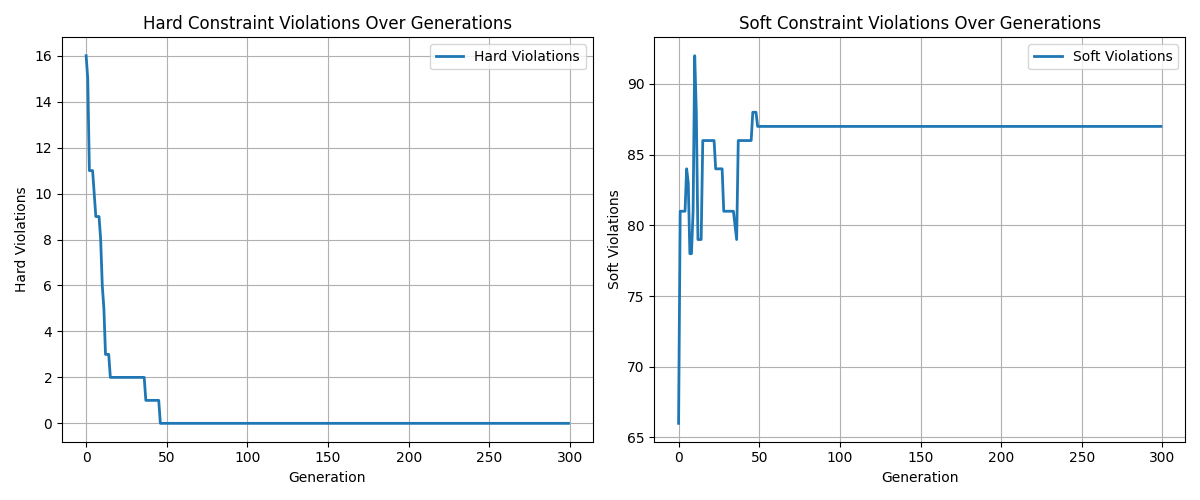
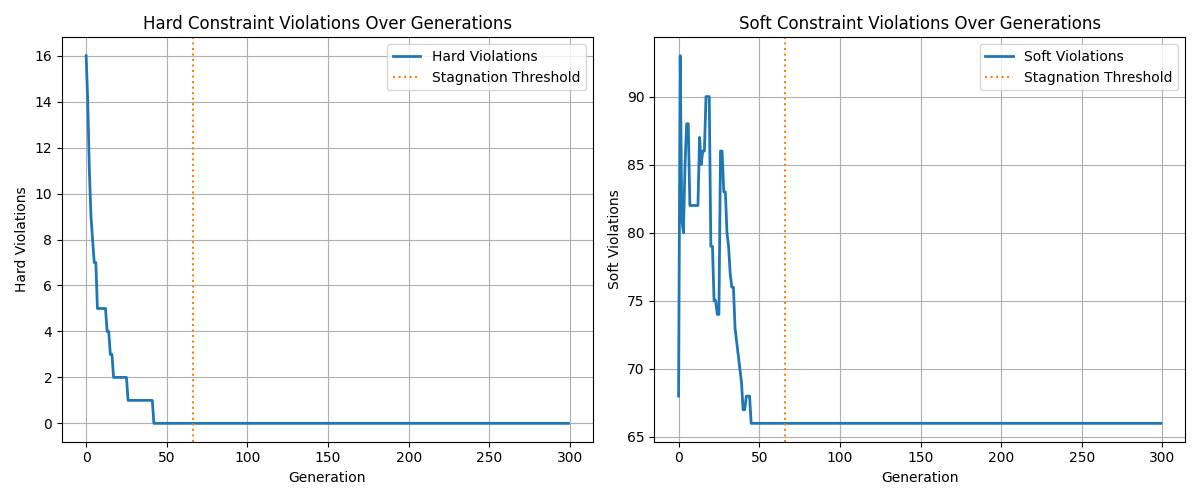
removed mutation boost, more params in grid search

diff --git a/tests/param_cv.py b/tests/param_cv.py
@@ -19,17 +19,22 @@ from utils import (
 )
 
 
-def run_ga(instance_file, seed, base_mutation_rate, crossover_rate, tournament_size):
+def run_ga(
+    instance_file,
+    seed,
+    POP_SIZE,
+    MUTATION_RATE,
+    crossover_rate,
+    tournament_size,
+):
     random.seed(seed)
 
     # -------------------------------
     # PARAMETERS
     # -------------------------------
-    POP_SIZE = 400
     GENERATIONS = 300
     ELITE_SIZE = 1
-    MUTATION_RATE_BOOST = 0.3
-    STAGNATION_THRESHOLD = 50
+    STAGNATION_THRESHOLD = 20
 
     N, K, M, E = read_instance(instance_file)
 
@@ -43,7 +48,6 @@ def run_ga(instance_file, seed, base_mutation_rate, crossover_rate, tournament_s
     best_fitness = evaluate_fitness(best_solution, E, K)
 
     generations_since_improvement = 0
-    current_mutation_rate = base_mutation_rate
 
     # -------------------------------
     # MAIN GA LOOP
@@ -58,17 +62,14 @@ def run_ga(instance_file, seed, base_mutation_rate, crossover_rate, tournament_s
             best_fitness = gen_best_fitness
             best_solution = population[gen_best_idx][:]
             generations_since_improvement = 0
-            current_mutation_rate = base_mutation_rate
         else:
             generations_since_improvement += 1
-            if generations_since_improvement >= STAGNATION_THRESHOLD:
-                current_mutation_rate = base_mutation_rate + MUTATION_RATE_BOOST
 
         # -------------------------------
         # RANDOM IMMIGRANTS
         # -------------------------------
         immigrant_rate = (
-            0.5 if generations_since_improvement > STAGNATION_THRESHOLD else 0.1
+            0.3 if generations_since_improvement > STAGNATION_THRESHOLD else 0.1
         )
         num_immigrants = max(1, round(POP_SIZE * immigrant_rate))
 
@@ -95,8 +96,8 @@ def run_ga(instance_file, seed, base_mutation_rate, crossover_rate, tournament_s
             else:
                 child1, child2 = parent1[:], parent2[:]
 
-            child1 = mutate(child1, K, current_mutation_rate)
-            child2 = mutate(child2, K, current_mutation_rate)
+            child1 = mutate(child1, K, MUTATION_RATE)
+            child2 = mutate(child2, K, MUTATION_RATE)
 
             new_population.append(child1)
             if len(new_population) < POP_SIZE:
@@ -138,9 +139,10 @@ def main():
     seed_folds = chunk_seeds(seeds, folds)
 
     # Search grid for parameters
-    base_mutation_rates = [0.05, 0.1, 0.2]
-    crossover_rates = [0.7, 0.9]
-    tournament_sizes = [4, 8, 12]
+    POP_SIZEs = [200, 300, 400]
+    MUTATION_RATEs = [0.05, 0.08, 0.1]
+    crossover_rates = [0.5, 0.7, 0.9]
+    tournament_sizes = [2, 4, 8]
 
     results = []
 
@@ -149,74 +151,79 @@ def main():
     print(f"Runs: {runs}")
     print(f"Folds: {len(seed_folds)}")
     print(
-        f"Grid: base_mutation_rate={base_mutation_rates}, "
+        f"Grid: POP_SIZE={POP_SIZEs}, MUTATION_RATE={MUTATION_RATEs}, "
         f"crossover_rate={crossover_rates}, tournament_size={tournament_sizes}"
     )
 
-    for base_mutation_rate in base_mutation_rates:
-        for crossover_rate in crossover_rates:
-            for tournament_size in tournament_sizes:
-                fold_hard_means = []
-                fold_soft_means = []
-                zero_hard_counts = 0
-                total_runs = 0
-
-                print(
-                    "\nConfig: "
-                    f"base_mutation_rate={base_mutation_rate}, "
-                    f"crossover_rate={crossover_rate}, "
-                    f"tournament_size={tournament_size}"
-                )
-
-                for fold_idx, fold_seeds in enumerate(seed_folds, start=1):
-                    hard_values = []
-                    soft_values = []
+    for POP_SIZE in POP_SIZEs:
+        for MUTATION_RATE in MUTATION_RATEs:
+            for crossover_rate in crossover_rates:
+                for tournament_size in tournament_sizes:
+                    fold_hard_means = []
+                    fold_soft_means = []
+                    zero_hard_counts = 0
+                    total_runs = 0
 
                     print(
-                        f"  Fold {fold_idx}/{len(seed_folds)} | Seeds: {len(fold_seeds)}"
+                        "\nConfig: "
+                        f"POP_SIZE={POP_SIZE}, "
+                        f"MUTATION_RATE={MUTATION_RATE}, "
+                        f"crossover_rate={crossover_rate}, "
+                        f"tournament_size={tournament_size}"
                     )
-                    for seed in fold_seeds:
-                        best_fitness = run_ga(
-                            instance_file,
-                            seed,
-                            base_mutation_rate,
-                            crossover_rate,
-                            tournament_size,
+
+                    for fold_idx, fold_seeds in enumerate(seed_folds, start=1):
+                        hard_values = []
+                        soft_values = []
+
+                        print(
+                            f"  Fold {fold_idx}/{len(seed_folds)} | Seeds: {len(fold_seeds)}"
                         )
-                        hard_values.append(best_fitness[0])
-                        soft_values.append(best_fitness[1])
-                        if best_fitness[0] == 0:
-                            zero_hard_counts += 1
-                        total_runs += 1
+                        for seed in fold_seeds:
+                            best_fitness = run_ga(
+                                instance_file,
+                                seed,
+                                POP_SIZE,
+                                MUTATION_RATE,
+                                crossover_rate,
+                                tournament_size,
+                            )
+                            hard_values.append(best_fitness[0])
+                            soft_values.append(best_fitness[1])
+                            if best_fitness[0] == 0:
+                                zero_hard_counts += 1
+                            total_runs += 1
 
-                    fold_hard_means.append(mean(hard_values))
-                    fold_soft_means.append(mean(soft_values))
+                        fold_hard_means.append(mean(hard_values))
+                        fold_soft_means.append(mean(soft_values))
 
-                result = {
-                    "base_mutation_rate": base_mutation_rate,
-                    "crossover_rate": crossover_rate,
-                    "tournament_size": tournament_size,
-                    "hard_mean": mean(fold_hard_means),
-                    "hard_std": std_dev(fold_hard_means),
-                    "soft_mean": mean(fold_soft_means),
-                    "soft_std": std_dev(fold_soft_means),
-                    "zero_hard_pct": (zero_hard_counts / total_runs) * 100,
-                }
-                results.append(result)
+                    result = {
+                        "POP_SIZE": POP_SIZE,
+                        "MUTATION_RATE": MUTATION_RATE,
+                        "crossover_rate": crossover_rate,
+                        "tournament_size": tournament_size,
+                        "hard_mean": mean(fold_hard_means),
+                        "hard_std": std_dev(fold_hard_means),
+                        "soft_mean": mean(fold_soft_means),
+                        "soft_std": std_dev(fold_soft_means),
+                        "zero_hard_pct": (zero_hard_counts / total_runs) * 100,
+                    }
+                    results.append(result)
 
-                print(
-                    "  Summary | "
-                    f"Hard mean: {result['hard_mean']:.3f} (std {result['hard_std']:.3f}) | "
-                    f"Soft mean: {result['soft_mean']:.3f} (std {result['soft_std']:.3f}) | "
-                    f"% zero hard: {result['zero_hard_pct']:.1f}%"
-                )
+                    print(
+                        "  Summary | "
+                        f"Hard mean: {result['hard_mean']:.3f} (std {result['hard_std']:.3f}) | "
+                        f"Soft mean: {result['soft_mean']:.3f} (std {result['soft_std']:.3f}) | "
+                        f"% zero hard: {result['zero_hard_pct']:.1f}%"
+                    )
 
     results.sort(key=lambda r: (r["hard_mean"], r["soft_mean"]))
 
     print("\n=== TOP CONFIGS ===")
     for idx, r in enumerate(results[:5], start=1):
         print(
-            f"{idx}. base_mutation_rate={r['base_mutation_rate']}, "
+            f"{idx}. POP_SIZE={r['POP_SIZE']}, "
+            f"MUTATION_RATE={r['MUTATION_RATE']}, "
             f"crossover_rate={r['crossover_rate']}, "
             f"tournament_size={r['tournament_size']} | "
             f"Hard mean: {r['hard_mean']:.3f} (std {r['hard_std']:.3f}) | "

diff --git a/src/main.py b/src/main.py
@@ -21,8 +21,7 @@ def main():
     GENERATIONS = 300
     ELITE_SIZE = 1
     TOURNAMENT_SIZE = 8
-    BASE_MUTATION_RATE = 0.1
-    MUTATION_RATE_BOOST = 0.3
+    MUTATION_RATE = 0.05
     STAGNATION_THRESHOLD = 20
     CROSSOVER_RATE = 0.7
 
@@ -54,8 +53,9 @@ def main():
     best_fitness = evaluate_fitness(best_solution, E, K)
 
     best_fitness_history = []
+    stagnation_hit_generations = []
     generations_since_improvement = 0
-    current_mutation_rate = BASE_MUTATION_RATE
+    current_mutation_rate = MUTATION_RATE
 
     # -------------------------------
     # MAIN GA LOOP
@@ -74,11 +74,11 @@ def main():
             best_fitness = gen_best_fitness
             best_solution = population[gen_best_idx][:]
             generations_since_improvement = 0
-            current_mutation_rate = BASE_MUTATION_RATE
         else:
             generations_since_improvement += 1
-            if generations_since_improvement >= STAGNATION_THRESHOLD:
-                current_mutation_rate = BASE_MUTATION_RATE + MUTATION_RATE_BOOST
+
+        if generations_since_improvement == STAGNATION_THRESHOLD:
+            stagnation_hit_generations.append(generation + 1)
 
         best_fitness_history.append(best_fitness)
 
@@ -102,7 +102,6 @@ def main():
             f"Gen {generation + 1:3d} | "
             f"Gen Best (H,S): {gen_best_fitness} | "
             f"Overall Best (H,S): {best_fitness} || "
-            f"Mutation Rate: {current_mutation_rate:.3f} | "
             f"Stagnant: {generations_since_improvement}/{STAGNATION_THRESHOLD}"
         )
 
@@ -154,6 +153,18 @@ def main():
 
     plt.subplot(1, 2, 1)
     plt.plot(hard_history, linewidth=2, label="Hard Violations")
+    for hit_gen in stagnation_hit_generations:
+        plt.axvline(
+            x=hit_gen,
+            color="tab:orange",
+            linestyle=":",
+            linewidth=1.5,
+            label=(
+                "Stagnation Threshold"
+                if hit_gen == stagnation_hit_generations[0]
+                else None
+            ),
+        )
     plt.xlabel("Generation")
     plt.ylabel("Hard Violations")
     plt.title("Hard Constraint Violations Over Generations")
@@ -162,6 +173,18 @@ def main():
 
     plt.subplot(1, 2, 2)
     plt.plot(soft_history, linewidth=2, label="Soft Violations")
+    for hit_gen in stagnation_hit_generations:
+        plt.axvline(
+            x=hit_gen,
+            color="tab:orange",
+            linestyle=":",
+            linewidth=1.5,
+            label=(
+                "Stagnation Threshold"
+                if hit_gen == stagnation_hit_generations[0]
+                else None
+            ),
+        )
     plt.xlabel("Generation")
     plt.ylabel("Soft Violations")
     plt.title("Soft Constraint Violations Over Generations")

diff --git a/tests/run_stats.py b/tests/run_stats.py
@@ -30,8 +30,7 @@ def run_ga(instance_file, seed):
     GENERATIONS = 300
     ELITE_SIZE = 1
     TOURNAMENT_SIZE = 8
-    BASE_MUTATION_RATE = 0.1
-    MUTATION_RATE_BOOST = 0.3
+    MUTATION_RATE = 0.1
     STAGNATION_THRESHOLD = 50
     CROSSOVER_RATE = 0.9
 
@@ -47,7 +46,6 @@ def run_ga(instance_file, seed):
     best_fitness = evaluate_fitness(best_solution, E, K)
 
     generations_since_improvement = 0
-    current_mutation_rate = BASE_MUTATION_RATE
 
     # -------------------------------
     # MAIN GA LOOP
@@ -62,11 +60,8 @@ def run_ga(instance_file, seed):
             best_fitness = gen_best_fitness
             best_solution = population[gen_best_idx][:]
             generations_since_improvement = 0
-            current_mutation_rate = BASE_MUTATION_RATE
         else:
             generations_since_improvement += 1
-            if generations_since_improvement >= STAGNATION_THRESHOLD:
-                current_mutation_rate = BASE_MUTATION_RATE + MUTATION_RATE_BOOST
 
         # -------------------------------
         # RANDOM IMMIGRANTS
@@ -99,8 +94,8 @@ def run_ga(instance_file, seed):
             else:
                 child1, child2 = parent1[:], parent2[:]
 
-            child1 = mutate(child1, K, current_mutation_rate)
-            child2 = mutate(child2, K, current_mutation_rate)
+            child1 = mutate(child1, K, MUTATION_RATE)
+            child2 = mutate(child2, K, MUTATION_RATE)
 
             new_population.append(child1)
             if len(new_population) < POP_SIZE:

diff --git a/src/utils.py b/src/utils.py
@@ -218,18 +218,3 @@ def mutate(solution, K, mutation_rate):
         if random.random() < mutation_rate:
             mutated[i] = random.randint(0, K - 1)
     return mutated
-
-
-def population_diversity(population):
-    # Compute average normalized Hamming distance between all pairs
-    pop_size = len(population)
-    if pop_size < 2:
-        return 0.0
-    total_dist = 0
-    count = 0
-    for i in range(pop_size):
-        for j in range(i + 1, pop_size):
-            dist = sum(a != b for a, b in zip(population[i], population[j]))
-            total_dist += dist / len(population[i])
-            count += 1
-    return total_dist / count if count > 0 else 0.0
